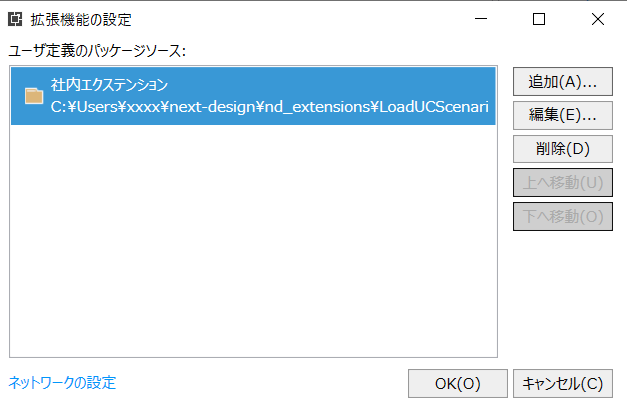
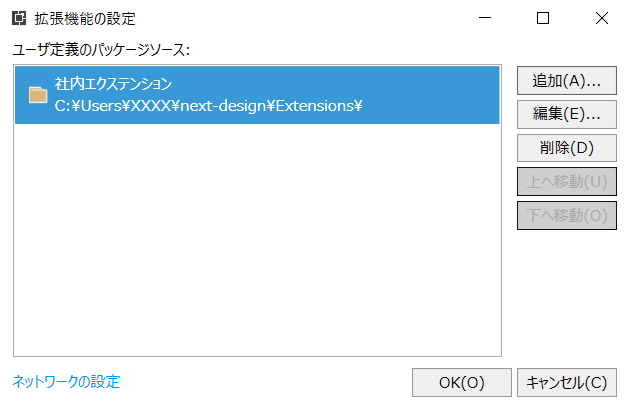
Modify extension directory name

diff --git a/docs/HOWTO-MAKE.md b/docs/HOWTO-MAKE.md
@@ -185,14 +185,15 @@ Next Designのエクステンションパッケージは、Gitリポジトリで
 
 以下のエクステンションパッケージ管理用Gitリポジトリを取得する。
 
-[ndpackages](https://github.com/???/ndpackages)
+Extensions
+https://github.com/???/Extensions
 
 リポジトリの取得手順例を以下に示す。
 
 ```PowerShell
-% git clone https://github.com/???/ndpackages
+% git clone https://github.com/???/Extensions
 % ls
-ndpackages/
+Extensions/
 %
 ```
 
@@ -202,7 +203,7 @@ ndpackages/
 
 ```PowerShell
 （ローカルのリポジトリディレクトリに移動）
-% cd ndpackages
+% cd Extensions
 % cp XXX/ndpackages/LoadUCScenario.1.0.1.nupkg .
 % ls
 LoadUCScenario.1.0.1.nupkg

diff --git a/docs/HOWTO-INSTALL.md b/docs/HOWTO-INSTALL.md
@@ -8,14 +8,14 @@ Next Designのエクステンションパッケージは、Gitリポジトリで
 
 Next Designを使用しているPCで、以下のエクステンションパッケージ管理用Gitリポジトリを取得する。あらかじめGitをインストールし、リポジトリへのアクセス権を取得しておくこと。
 
-https://github.com/???/ndpackages
+https://github.com/???/Extensions
 
 リポジトリの取得手順例を以下に示す。
 
 ```PowerShell
-% git clone https://github.com/???/ndpackages
+% git clone https://github.com/???/Extensions
 % ls
-ndpackages/
+Extensions/
 %
 ```
 
